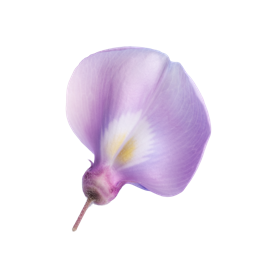
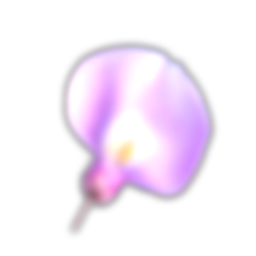
feat(hero): petalas esmaecem suavemente durante a rolagem, nao so somem em bloco pelo drawRange

Changed region(s): [[0.2188, 0.1562, 0.8438, 0.9375]]

diff --git a/components/three/HeroScene.tsx b/components/three/HeroScene.tsx
@@ -63,6 +63,9 @@ const SUN_RAY_FADE_END = 0.02;
 // mínimo (nunca some 100% — a cena continua viva o resto da rolagem).
 const PETAL_THINNING_END = 0.6;
 const PETAL_MIN_VISIBLE_RATIO = 0.15;
+// Opacidade mínima do material das pétalas no fim do esmaecimento (nunca
+// zero — mesma lógica de "nunca deixar a cena 100% morta" do resto daqui).
+const PETAL_MIN_OPACITY = 0.25;
 
 /** `t*t*(3-2t)` — easing suave (sem começo/fim abruptos) pra qualquer transição 0→1 desta cena. */
 function smoothstep(t: number): number {
@@ -266,16 +269,15 @@ function makeDiscTexture(): THREE.Texture {
   return texture;
 }
 
-// Quanto de desfoque (em px, na escala original da imagem — 256px) aplicar
-// em cada foto de pétala antes de virar textura. Baixado de 3.5 pra 2.2:
-// mesmo com o bug de textura (NPOT/mipmap) corrigido, as pétalas relatadas
-// como "sumidas" de novo provavelmente é isso — desfocadas demais e
-// pequenas, elas se perdem visualmente dentro do próprio vídeo de fundo
-// (que já tem glicínias e bokeh desfocados), fica difícil de notar mesmo
-// estando lá. Menos desfoque + mais brilho/saturação (ver
-// `loadBlurredTexture`) + partícula maior dão mais presença sem virar
-// sticker nítido colado por cima.
-const PETAL_BLUR_PX = 2.2;
+// Desfoque + brilho/saturação agora vêm PRÉ-APLICADOS direto no arquivo
+// (`public/hero/petals/petal-N.png`, gerados com o mesmo tratamento visual
+// — blur, +25% brilho, +35% saturação — que antes era feito em tempo real
+// aqui via `ctx.filter`, ver `loadBlurredTexture` abaixo). Pedido explícito
+// do casal: queriam o desfoque mais forte/visível de verdade nas pétalas do
+// site, igual às referências que mandaram. Ficou zerado aqui (não mais
+// aplicado de novo em cima em tempo real) pra não desfocar/saturar em
+// dobro — a imagem já sai do arquivo do jeito que precisa aparecer.
+const PETAL_BLUR_PX = 0;
 
 /**
  * Carrega uma imagem e devolve uma `THREE.Texture` já desfocada — em vez de
@@ -321,12 +323,11 @@ function loadBlurredTexture(url: string, blurPx: number): THREE.Texture {
   const image = new Image();
   image.onload = () => {
     if (ctx) {
-      // `brightness`/`saturate` além do `blur`: as fotos originais, depois
-      // de desfocadas e reduzidas a pontos pequenos na cena, ficavam
-      // esmaecidas demais pra se destacar contra um vídeo de fundo já
-      // cheio de cor — um empurrão de brilho/saturação aqui compensa isso
-      // sem precisar aumentar opacidade (que já estava no máximo).
-      ctx.filter = `blur(${blurPx}px) brightness(1.25) saturate(1.35)`;
+      // Só aplica filtro de desfoque/brilho/saturação em tempo real se
+      // `blurPx > 0` — hoje o arquivo já vem com isso pré-aplicado (ver
+      // `PETAL_BLUR_PX` acima), então por padrão `ctx.filter` fica "none"
+      // e a foto é desenhada como está, sem borrar/saturar em cima de novo.
+      ctx.filter = blurPx > 0 ? `blur(${blurPx}px) brightness(1.25) saturate(1.35)` : "none";
       // Desenha na mesma escala pro tamanho conhecido (`PETAL_SOURCE_SIZE`),
       // não no tamanho natural do arquivo — assim funciona igual mesmo se
       // algum dia alguém trocar a foto por uma de dimensão levemente
@@ -409,6 +410,7 @@ function FallingPetals({
   count: number;
 }) {
   const pointsRef = useRef<ThreePoints>(null);
+  const materialRef = useRef<THREE.PointsMaterial>(null);
   const petalTexture = useMemo(() => loadBlurredTexture(textureUrl, PETAL_BLUR_PX), [textureUrl]);
 
   useEffect(() => () => petalTexture.dispose(), [petalTexture]);
@@ -444,6 +446,18 @@ function FallingPetals({
     const thinning = smoothstep(progress / PETAL_THINNING_END);
     const visibleRatio = 1 - thinning * (1 - PETAL_MIN_VISIBLE_RATIO);
     points.geometry.setDrawRange(0, Math.max(2, Math.round(count * visibleRatio)));
+
+    // Pedido explícito: além de reduzir a quantidade, a rolagem também
+    // precisa ESMAECER as pétalas suavemente — antes, cada uma simplesmente
+    // "piscava" e desaparecia de repente assim que saía do `drawRange`
+    // acima, sem nenhum fade visual (só sumia). Usando a MESMA curva
+    // (`thinning`) pra também baixar a opacidade do material, o
+    // desaparecimento fica sincronizado e suave, não abrupto — nunca chega
+    // a opacidade zero (`PETAL_MIN_OPACITY`), pela mesma lógica de "nunca
+    // deixar a cena 100% morta" usada em todo o resto daqui.
+    if (materialRef.current) {
+      materialRef.current.opacity = 1 - thinning * (1 - PETAL_MIN_OPACITY);
+    }
 
     // `tsconfig.json` liga `noUncheckedIndexedAccess` — todo acesso por
     // índice (array[i], attributes.position) volta tipado como "| undefined"
@@ -496,6 +510,7 @@ function FallingPetals({
         natural de cor de cada foto é que dá o efeito de pétala de verdade.
       */}
       <pointsMaterial
+        ref={materialRef}
         map={petalTexture}
         size={0.34}
         transparent
